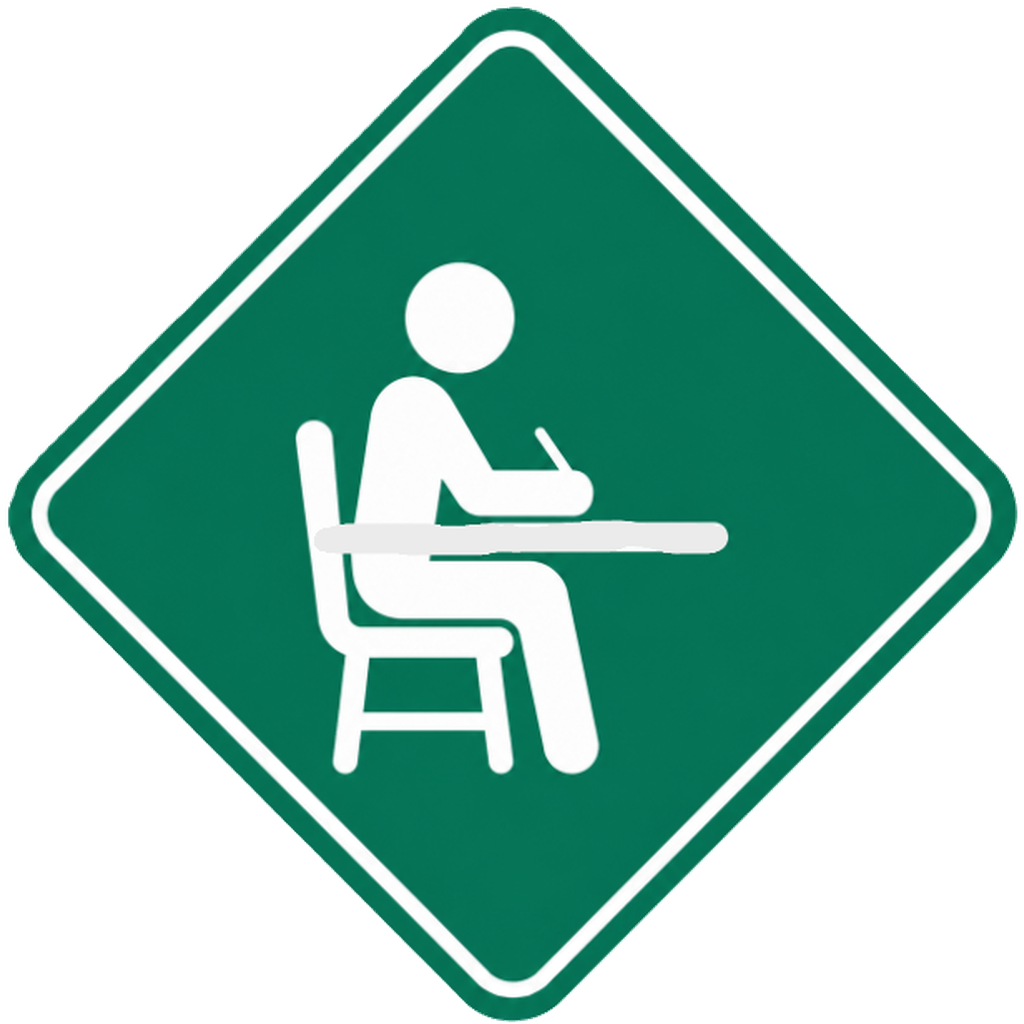
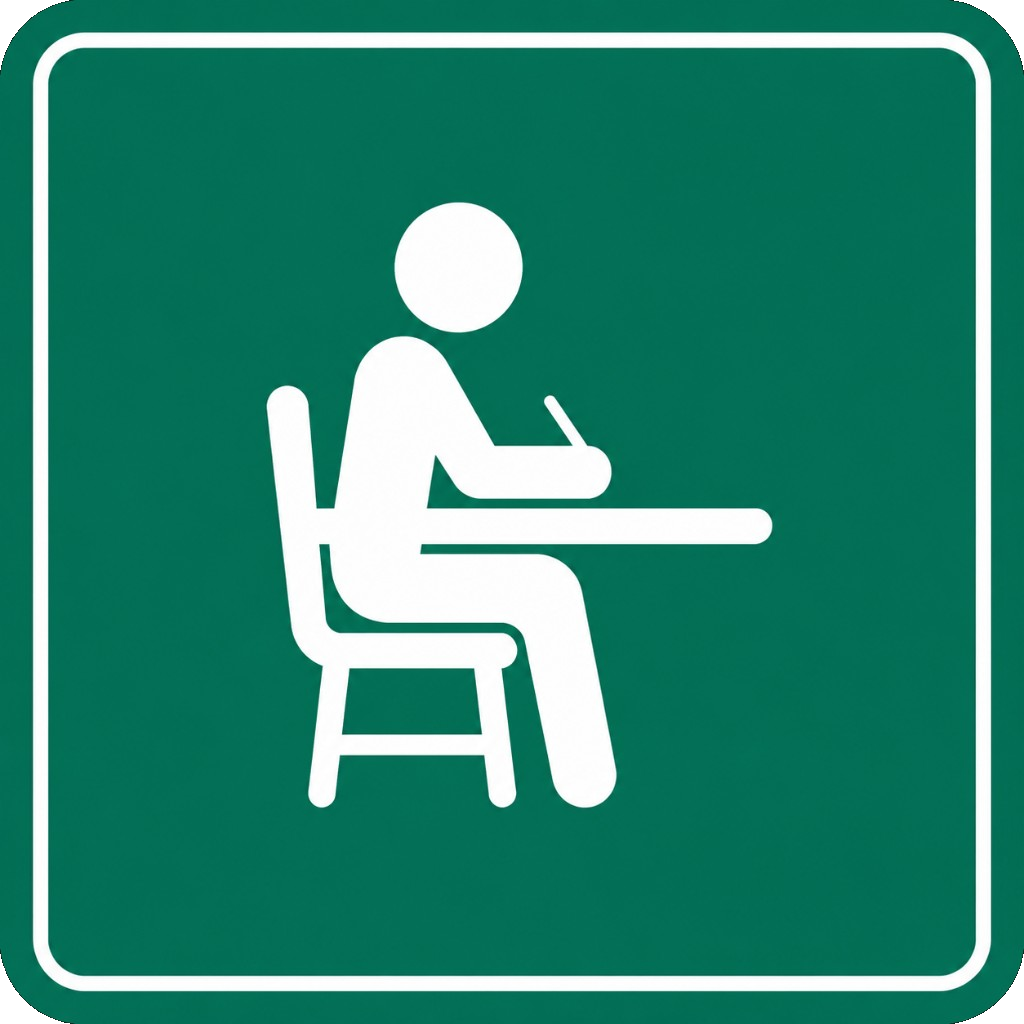
Atualizar icone para versao quadrada arredondada.
Remove fundo preto externo e regenera favicon e tamanhos PWA do novo simbolo de estudo.

diff --git a/scripts/remove-icon-background.py b/scripts/remove-icon-background.py
@@ -1,7 +1,6 @@
-"""Remove external white background from diamond icon (flood fill from edges)."""
+"""Remove external background from icon (flood fill from edges)."""
 from __future__ import annotations
 
-import os
 import sys
 from collections import deque
 from pathlib import Path
@@ -9,13 +8,19 @@ from pathlib import Path
 from PIL import Image
 
 
-def is_background_white(r: int, g: int, b: int, a: int = 255) -> bool:
+def is_external_background(r: int, g: int, b: int, a: int = 255) -> bool:
     if a < 10:
         return True
-    return r > 235 and g > 235 and b > 235
+    # branco externo (export com fundo claro)
+    if r > 235 and g > 235 and b > 235:
+        return True
+    # preto externo (export com fundo escuro / cantos)
+    if r < 30 and g < 30 and b < 30:
+        return True
+    return False
 
 
-def remove_external_white(src: Path) -> Image.Image:
+def remove_external_background(src: Path) -> Image.Image:
     img = Image.open(src).convert("RGBA")
     w, h = img.size
     pixels = img.load()
@@ -24,12 +29,12 @@ def remove_external_white(src: Path) -> Image.Image:
 
     for x in range(w):
         for y in (0, h - 1):
-            if not visited[y][x] and is_background_white(*pixels[x, y]):
+            if not visited[y][x] and is_external_background(*pixels[x, y]):
                 visited[y][x] = True
                 q.append((x, y))
     for y in range(h):
         for x in (0, w - 1):
-            if not visited[y][x] and is_background_white(*pixels[x, y]):
+            if not visited[y][x] and is_external_background(*pixels[x, y]):
                 visited[y][x] = True
                 q.append((x, y))
 
@@ -39,7 +44,7 @@ def remove_external_white(src: Path) -> Image.Image:
         pixels[x, y] = (r, g, b, 0)
         for nx, ny in ((x - 1, y), (x + 1, y), (x, y - 1), (x, y + 1)):
             if 0 <= nx < w and 0 <= ny < h and not visited[ny][nx]:
-                if is_background_white(*pixels[nx, ny]):
+                if is_external_background(*pixels[nx, ny]):
                     visited[ny][nx] = True
                     q.append((nx, ny))
 
@@ -54,7 +59,7 @@ def main() -> None:
         root.parent / "Nomeia-Ai_Rankings-App" / "Nomeia-Ai_Rankings" / "assets" / "images" / "icon.png",
     ]
 
-    img = remove_external_white(src)
+    img = remove_external_background(src)
     for out in outputs:
         out.parent.mkdir(parents=True, exist_ok=True)
         img.save(out, "PNG")
